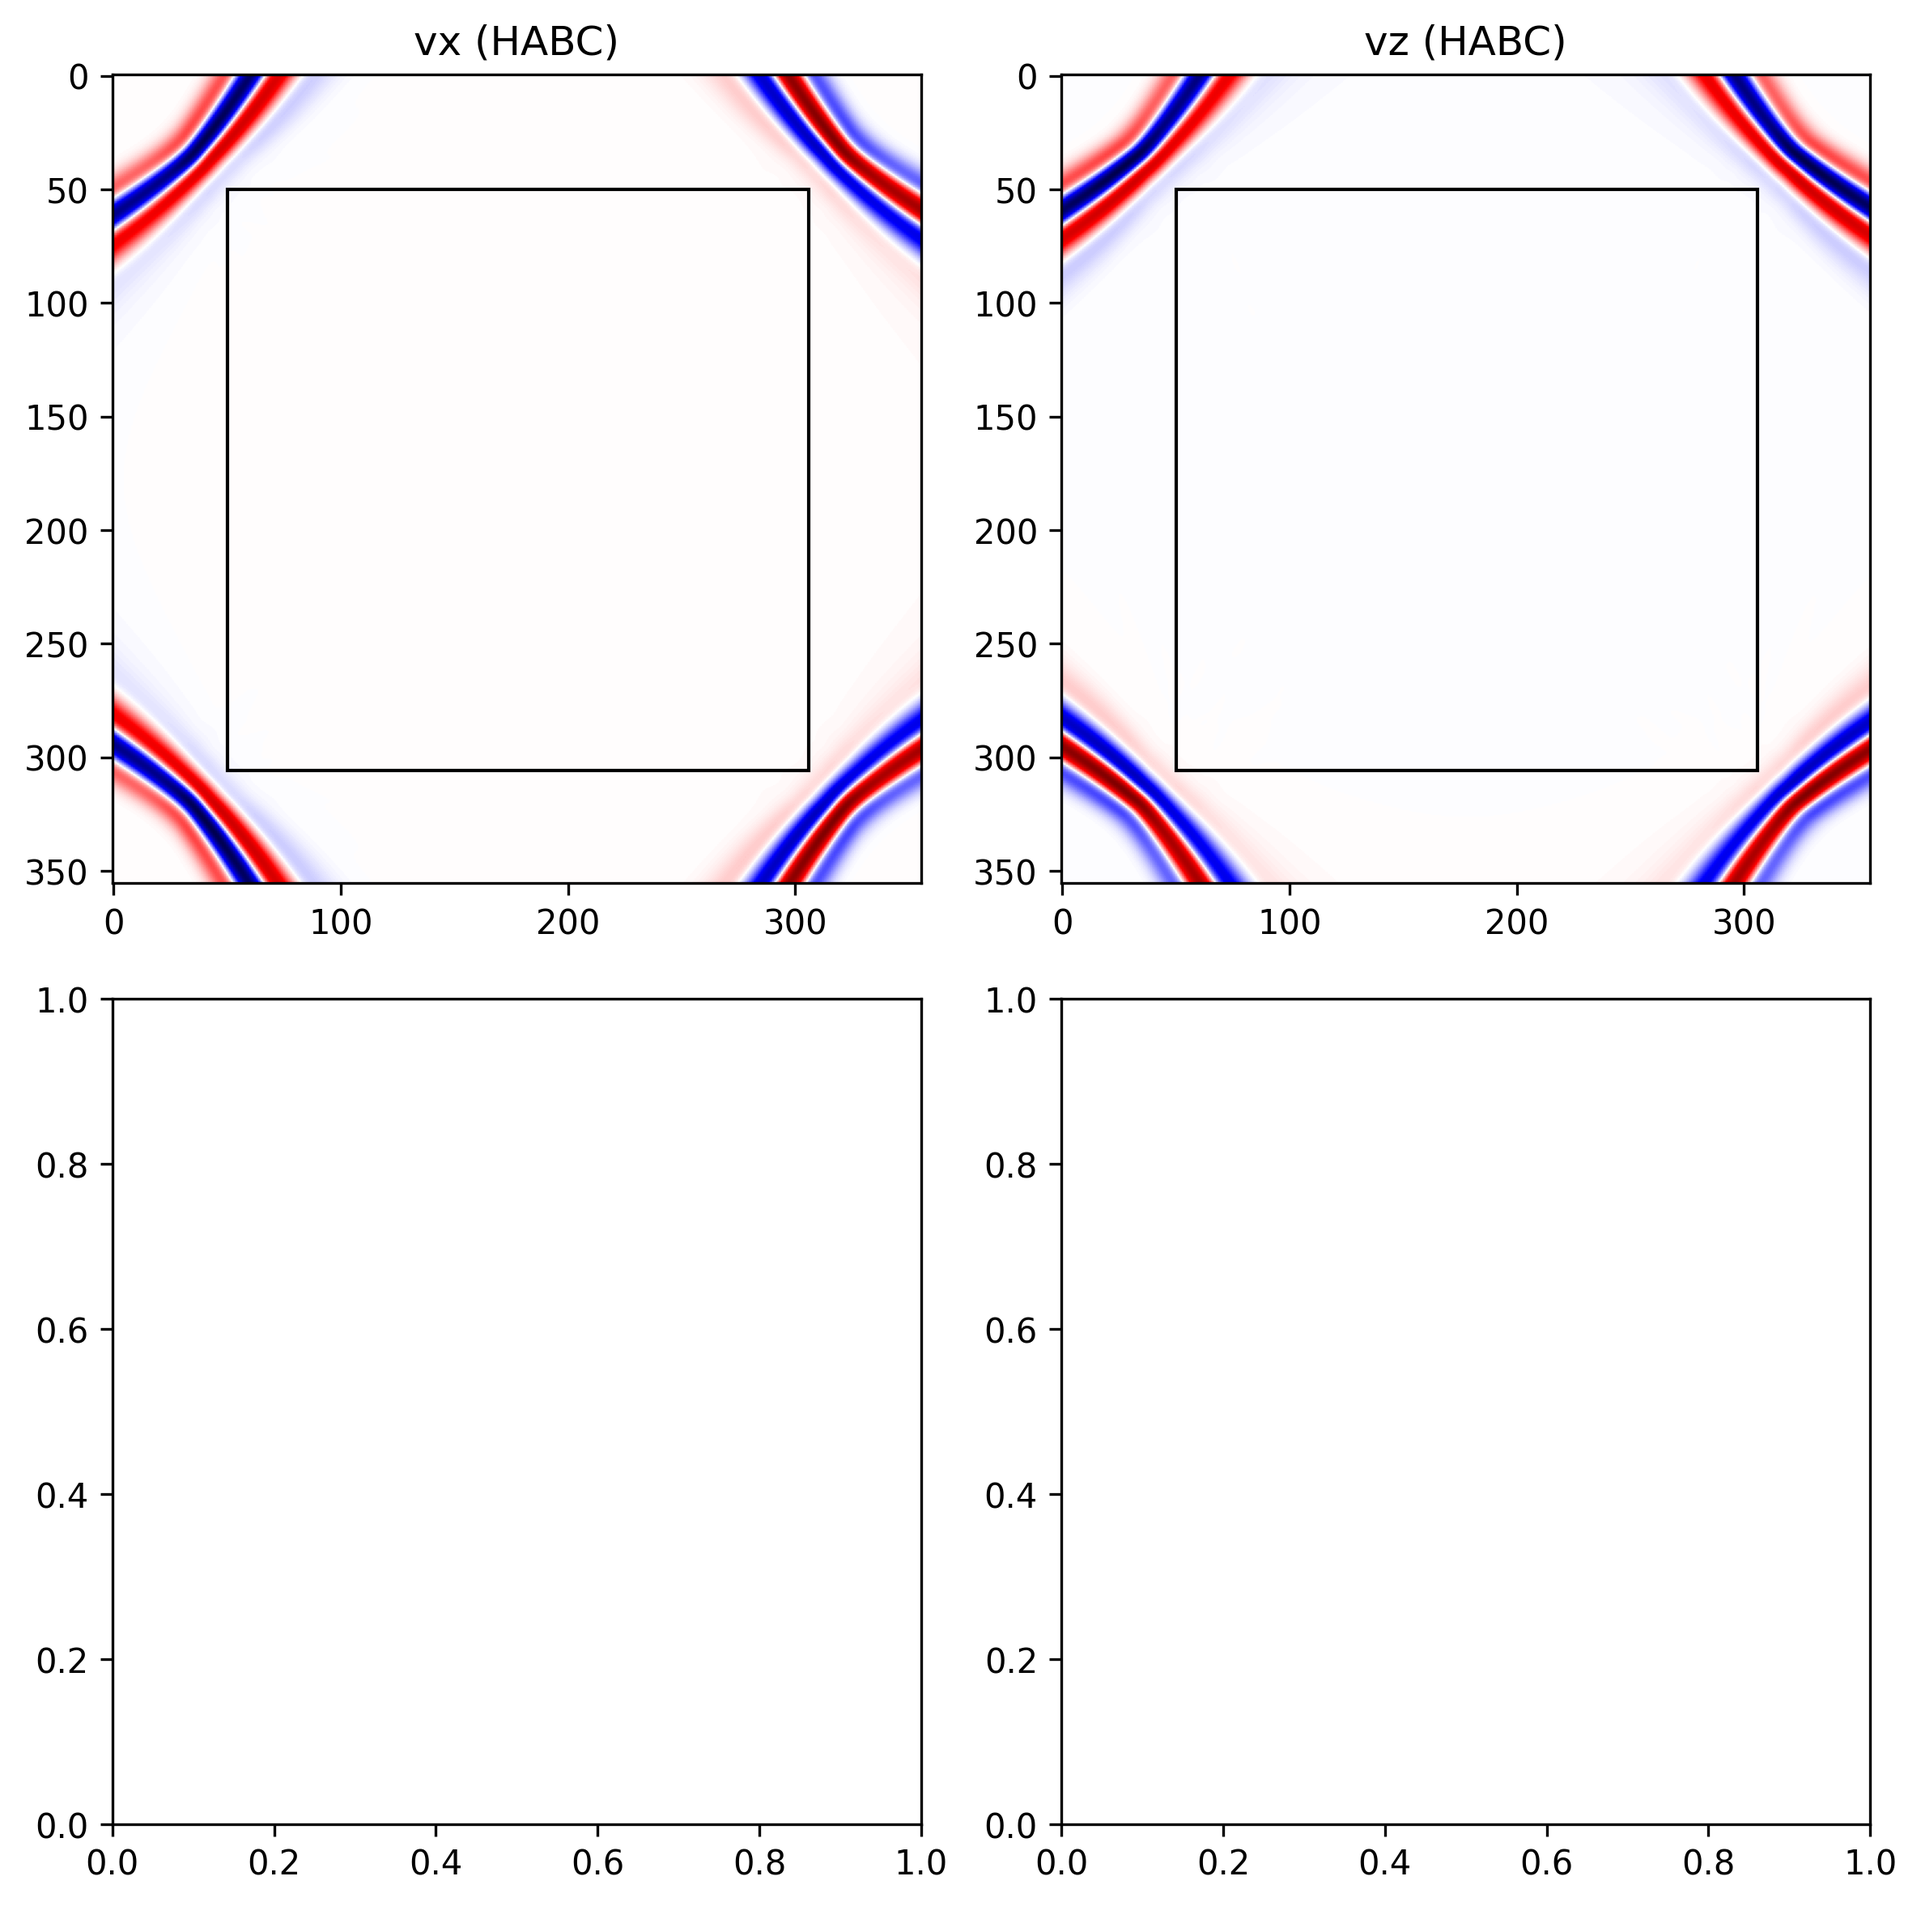
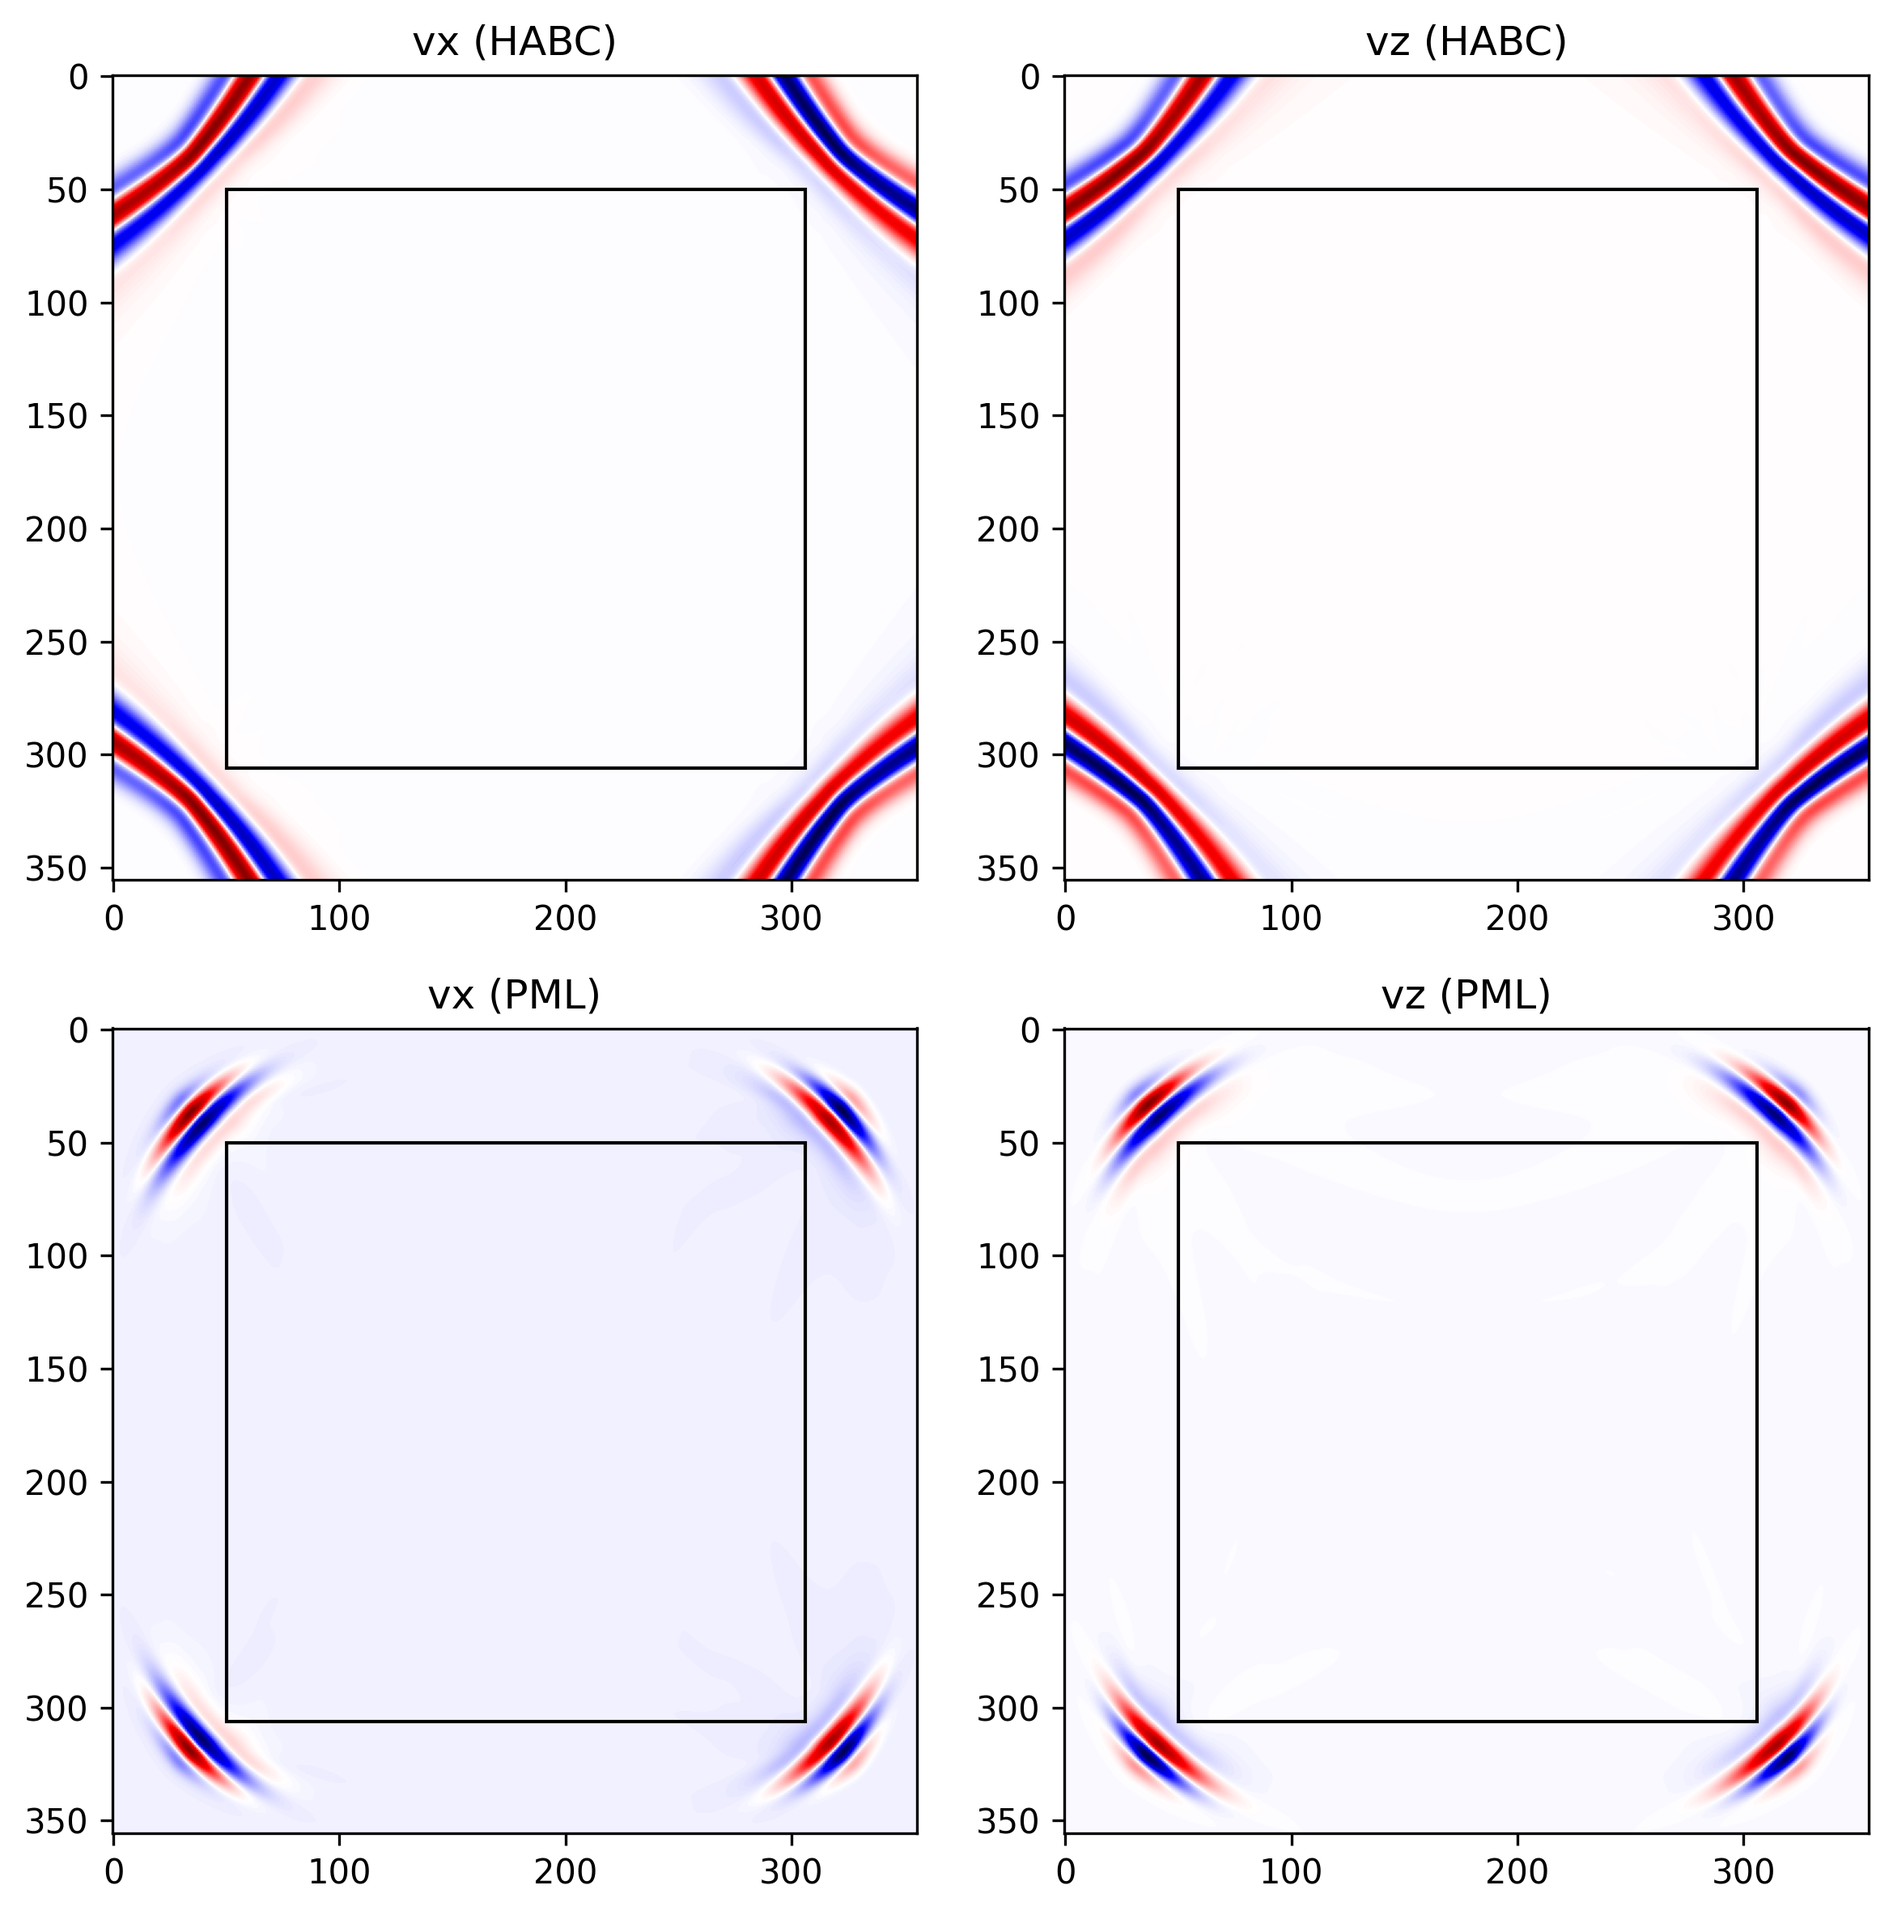
Added vector reflectivity-based acoustic wave equation & Fixed operator bug.

diff --git a/src/geophyai/equations/acoustic_vf.py b/src/geophyai/equations/acoustic_vf.py
@@ -1,0 +1,74 @@
+import torch, jax
+import jax.numpy as jnp
+from .operator_jax import laplace
+from .operator_jax import laplace3d as laplace3d_jax
+import numpy as np
+from .utils import to_backend
+from .operator_jax import PartialDerivative as PartialDerivativeJax
+
+from typing import Tuple, Optional, Union, List
+from .habc_jax import habc, bound_mask
+from geophyai.scalars import generate_convolution_kernel, generate_convolution_kernel3d
+
+def step(u_now, u_pre, vp, rx, rz, dt, h, b, lap_u_now, dpdx, dpdz, dvpdx, dvpdz, pd, habc_masks=None):
+    a = 1 / (1 + b * dt)
+    u_next = 2 * u_now - u_pre + vp**2*dt**2*lap_u_now + vp*(dvpdx*dpdx + dvpdz*dpdz)*dt**2 - 2*vp**2*(rx*dpdx + rz*dpdz)*dt**2
+    u_next = a * u_next + (1 - a) * u_pre
+    return u_next, u_now
+
+# def step_habc(u_now, u_pre, vp, dt, h, b, lap_u_now, habc_mask):
+#     u_next = 2*u_now - u_pre + vp**2*dt**2 * lap_u_now
+#     u_next = habc(u_next, u_now, u_pre, vp, b, dt, h, maskidx=habc_mask)
+#     return u_next, u_now
+
+class Acoustic:
+    """
+    Parameter order: vp, rx, rz
+
+    Wavefields: (h1, h2)
+
+    Reference: Yu Pengfei, 10.1190/geo2015-0535.1
+    """
+    def __init__(self, spatial_order=4, device='cpu', backend = 'torch', dim=2):
+        """Acoustic wave equation solver.
+
+        Args:
+            spatial_order (int, optional): The order of the taylor expansion(Must be even). Defaults to 4.
+        """
+        
+        kernel = generate_convolution_kernel(spatial_order)
+        # First order gradient kernel (first derivative)
+        gkernel_x = generate_convolution_kernel(spatial_order, derivative_order=1, mode='x', no_center=True, grid='normal', sign=-1)
+        gkernel_z = generate_convolution_kernel(spatial_order, derivative_order=1, mode='z', no_center=True, grid='normal', sign=-1)
+        
+        self.gkernel_x = to_backend(gkernel_x, backend, device)
+        self.gkernel_z = to_backend(gkernel_z, backend, device)
+        self.kernel = to_backend(kernel, backend, device)
+
+        self.pd = PartialDerivativeJax(spatial_order)
+
+
+    def init_habc(self, shape, abcn, free_surface=False, batchsize=1, use_habc=False):
+        habc_masks = bound_mask(*shape, abcn, batchsize, return_idx=True, free_surface=free_surface)
+        self.habc_masks = tuple([np.array(mask) if mask is not None else mask for mask in habc_masks])
+        self.use_habc = use_habc
+
+    @property
+    def models(self):
+        return ['vp', 'rx', 'rz']
+    
+    @property
+    def wavefields(self):
+        return ['h1', 'h2']
+
+    # def func(self, *args, **kwargs):
+    #     lap_u_now = laplace(args[0], args[4], self.kernel)
+    #     return step_pml(*args, lap_u_now)
+    
+    def func_jax(self, *args, **kwargs):
+        lap_u_now = laplace(args[0], args[6], self.kernel)
+        dvpdx = jnp.gradient(args[2],args[6], axis=-1) # 2nd Center Difference
+        dvpdz = jnp.gradient(args[2],args[6], axis=-2)
+        dpdx = jnp.gradient(args[0], args[6], axis=-1)
+        dpdz = jnp.gradient(args[0], args[6], axis=-2)
+        return step(*args, lap_u_now, dpdx, dpdz, dvpdx, dvpdz, self.pd, self.habc_masks)

diff --git a/examples/acoustic_vf/acoustic_vf.py b/examples/acoustic_vf/acoustic_vf.py
@@ -1,0 +1,72 @@
+import os
+os.environ["XLA_PYTHON_CLIENT_PREALLOCATE"] = "false"
+
+import sys, tqdm, jax, optax
+
+import numpy as np
+import jax.numpy as jnp
+import jax.random as random
+sys.path.append('../../src')
+from geophyai.rnn import RNNJax
+from geophyai.equations import AcousticVF, Acoustic1st
+from geophyai.signal import ricker
+from functools import partial
+import matplotlib.pyplot as plt
+from configure import *
+
+save_path = 'marmousi'
+if not os.path.exists(save_path):
+    os.makedirs(save_path)
+
+np.random.seed(0)
+key = random.PRNGKey(0)
+
+t = np.arange(0, nt*dt, dt)
+true_vp = np.load(true_vp_path)
+true_rx = np.load(true_rx_path)
+true_rz = np.load(true_rz_path)
+true_rho = np.load(true_rho_path)
+
+shape = true_vp.shape
+
+nz, nx = shape
+
+wave = jnp.array(ricker(t-delay, f=fm))
+plt.plot(wave)
+plt.savefig(f'{save_path}/ricker.png', dpi=300, bbox_inches='tight')
+plt.close()
+
+eq_kwargs = dict(spatial_order=spatial_order, backend='jax')
+solver_kwargs = dict(shape=shape, dev=None, dh=dh, dt=dt, abcn=abcn, free_surface=free_surface, use_habc=use_habc)
+
+avf = RNNJax(AcousticVF(**eq_kwargs), source_type=['h1'], receiver_type=['h1'], **solver_kwargs)
+a1st = RNNJax(Acoustic1st(**eq_kwargs), source_type=['p'], receiver_type=['p'], **solver_kwargs)
+
+# Set the true a1stb
+avf.set_parameters([jnp.array(true_vp), jnp.array(true_rx), jnp.array(true_rz)])
+a1st.set_parameters([jnp.array(true_vp), jnp.array(true_rho)])
+# Geometry
+src_x = np.arange(0,nx, src_step).reshape(-1, 1)
+src_z = np.ones_like(src_x)*srcz
+sources = np.concatenate([src_x, src_z], axis=1) # (nshots, 2)
+rec_x = np.arange(0, nx, rec_step).reshape(-1, 1)
+rec_z = np.ones_like(rec_x)*recz
+receivers = np.concatenate([rec_x, rec_z], axis=1)
+receivers = receivers[None, ...].repeat(sources.shape[0], axis=0) # (nshots, nreceivers, 2)
+
+print("(Number of shots, dimension)", sources.shape)
+print("(Number of shots, number of receivers, dimension)", receivers.shape)
+
+for solver, title in zip([avf, a1st], ['Acoustic VR', 'Acoustic 1st']):
+    if title == 'Acoustic 1st':
+        _wave = jnp.cumsum(wave)  # Integrate the wavelet for 1st order
+    else:
+        _wave = wave
+    obs = solver(_wave, sources[-1:], receivers[-1:])
+    vmin, vmax = np.percentile(obs[-1], [2, 98])
+    plt.imshow(obs[-1].squeeze(), vmin=vmin, vmax=vmax, cmap='seismic', aspect='auto')
+    plt.colorbar()
+    plt.title(title)
+    plt.tight_layout()
+    plt.savefig(f'{save_path}/{title.lower().replace(" ", "_")}_obs.png', dpi=300, bbox_inches='tight')
+    plt.close()

diff --git a/src/geophyai/equations/operator_jax.py b/src/geophyai/equations/operator_jax.py
@@ -34,10 +34,10 @@ class PartialDerivative:
         max_length = 2 * num_kernels + 1
         # self.coes = jnp.ones_like(self.coes)
 
-        self.kxf = pad_kernels(create_kernels(num_kernels, self.coes, axis='x', forward=True), (1, max_length))
-        self.kxb = pad_kernels(create_kernels(num_kernels, self.coes, axis='x', forward=False), (1, max_length))
-        self.kzf = pad_kernels(create_kernels(num_kernels, self.coes, axis='z', forward=True), (max_length, 1))
-        self.kzb = pad_kernels(create_kernels(num_kernels, self.coes, axis='z', forward=False), (max_length, 1))
+        self.kxf = -pad_kernels(create_kernels(num_kernels, self.coes, axis='x', forward=True), (1, max_length))
+        self.kxb = -pad_kernels(create_kernels(num_kernels, self.coes, axis='x', forward=False), (1, max_length))
+        self.kzf = -pad_kernels(create_kernels(num_kernels, self.coes, axis='z', forward=True), (max_length, 1))
+        self.kzb = -pad_kernels(create_kernels(num_kernels, self.coes, axis='z', forward=False), (max_length, 1))
     
     def x_forward(self, u):
         return apply_kernels(u, self.kxf)

diff --git a/examples/acoustic_vf/configure.py b/examples/acoustic_vf/configure.py
@@ -1,0 +1,29 @@
+
+nt = 2500
+dt = 0.002
+delay = 0.256
+fm = 12.
+true_vp_path = '/ibex/user/wangs0j/repo/ifwi/data/models/marmousi2/true_vp.npy'
+true_rx_path = '/ibex/user/wangs0j/repo/ifwi/data/models/marmousi2/true_rx.npy'
+true_rz_path = '/ibex/user/wangs0j/repo/ifwi/data/models/marmousi2/true_rz.npy'
+true_rho_path = '/ibex/user/wangs0j/repo/ifwi/data/models/marmousi2/true_rho.npy'
+# smooth_path = 'marmousi_linear.npy'
+dh = 18.75
+spatial_order = 4
+
+abcn = 50
+free_surface = True
+use_habc = False
+
+src_step = 2
+rec_step = 1
+srcz = 0
+recz = 1
+
+lr = 25
+epochs = 101
+
+batchsize = 8
+step_per_epoch = 4
+batch_per_step = int(batchsize/step_per_epoch)
+show_every = 10

diff --git a/examples/habc_vs_pml/elastic.py b/examples/habc_vs_pml/elastic.py
@@ -58,7 +58,7 @@ print("(Number of shots, number of receivers, dimension)", receivers.shape)
 
 fig, axes = plt.subplots(2,2, figsize=(8, 8))
 DATA = []
-for i, (solver, titles) in enumerate(zip([solver_habc, solver_pml], ['HABC'])): #, 'PML'
+for i, (solver, titles) in enumerate(zip([solver_habc, solver_pml], ['HABC', 'PML'])): #, 'PML'
     start = time.time()
     _, wavefields = solver.forward(wave, sources, receivers, models=[vp, vs, rho], return_wavefield=True)
     wavefields.block_until_ready()

diff --git a/src/geophyai/equations/__init__.py b/src/geophyai/equations/__init__.py
@@ -11,6 +11,7 @@ from .qP_tti import AcousticTTI
 from .qP_vti import AcousticVTI
 from .qP_tariq import AcousticTariq
 from .visco_acoustic import ViscoAcoustic
+from .acoustic_vf import Acoustic as AcousticVF
 
 __all__ = ['Acoustic', 'Elastic', 'Acoustic1st', 'AcousticLSRTM', 'ElasticZ', 'ElasticP', 'AEC', 'ElasticLSRTM']
 supported_equations = { 'acoustic': {'fwi': [Acoustic, Acoustic1st],
